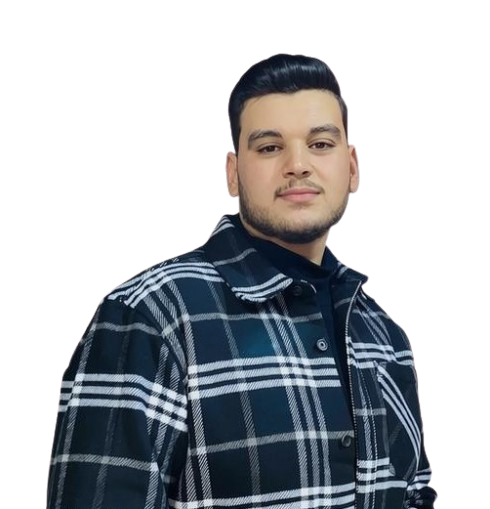
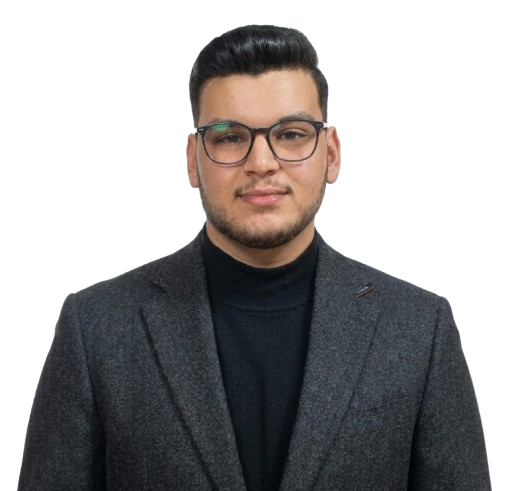
Add Shop-Edoo project and update Ooredoo internship details.

diff --git a/src/data/portfolioData.js b/src/data/portfolioData.js
@@ -17,14 +17,25 @@ export const experiences = [
     company: 'Ooredoo Tunisia',
     period: 'June 2025 - Aug 2025',
     points: [
-      'Transaction verification platform',
-      'Backend: Node.js / Express.js (REST API)',
-      'Frontend: React.js',
-      'LDAP authentication',
-      'MySQL database',
-      'Client & Admin dashboards',
+      'Shop-Edoo — omnichannel e-commerce platform (telecom products)',
+      'Full sales cycle: catalog, cart, checkout, payments, order tracking',
+      'REST API with Node.js / Express 5 / MongoDB (JWT auth)',
+      'Web app: Next.js 16 / React 19 — store, QR scanner, admin & role dashboards',
+      'Mobile app: Expo / React Native aligned with the web journey',
+      'Stripe payments, product QR codes, multi-store & digital invoices',
     ],
-    technologies: ['React', 'Node.js', 'Express', 'MySQL', 'LDAP', 'Git'],
+    technologies: [
+      'TypeScript',
+      'Next.js',
+      'React',
+      'Node.js',
+      'Express',
+      'MongoDB',
+      'Expo',
+      'Stripe',
+      'Tailwind CSS',
+      'Git',
+    ],
   },
   {
     role: 'Full-Stack Internship',
@@ -40,19 +51,42 @@ export const experiences = [
     technologies: ['React', 'Node.js', 'Firebase'],
   },
   {
-    role: 'C++ Internship',
+    role: 'Full-Stack Internship',
     company: 'ABBK PhysicsWorks',
     period: 'July 2023 - Aug 2023',
     points: [
-      'Desktop application development',
-      'Object-oriented programming in C++',
-      'System design and data handling',
+      'Transaction verification platform',
+      'Backend: Node.js / Express.js (REST API)',
+      'Frontend: React.js',
+      'LDAP authentication',
+      'MySQL database',
+      'Client & Admin dashboards',
     ],
-    technologies: ['C++'],
+    technologies: ['React', 'Node.js', 'Express', 'MySQL', 'LDAP', 'Git'],
   },
 ]
 
 export const projects = [
+  {
+    name: 'Shop-Edoo — Omnichannel E-commerce (Ooredoo)',
+    points: [
+      'Web + API + mobile: Next.js, Express, MongoDB, Expo',
+      '22 REST endpoints (auth, products, cart, orders, payments)',
+      'QR scan in-store, Stripe checkout, PDF receipts',
+      'Multi-role dashboards: admin, manager, cashier, delivery',
+      'JWT security, bcrypt, RBAC and input validation',
+    ],
+    technologies: [
+      'Next.js',
+      'React',
+      'TypeScript',
+      'Express',
+      'MongoDB',
+      'Expo',
+      'Stripe',
+      'Tailwind CSS',
+    ],
+  },
   {
     name: 'SmartSite — Construction Management System',
     points: [
@@ -100,6 +134,10 @@ export const skillGroups = [
       'Symfony',
       'Flask',
       'Firebase',
+      'Expo',
+      'React Native',
+      'Stripe',
+      'Tailwind CSS',
       'HTML',
       'CSS',
     ],
